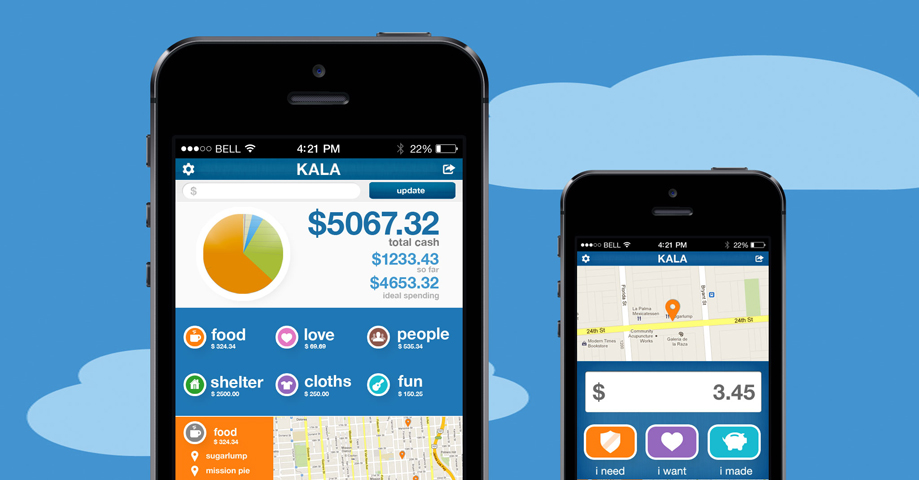
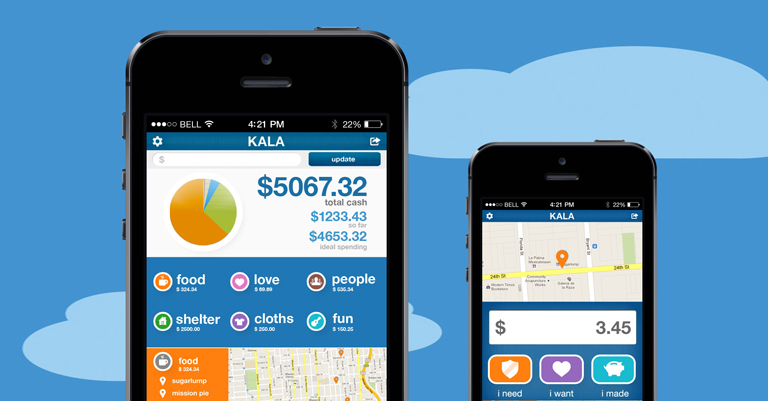
reduced mobile image size

diff --git a/css/main.css b/css/main.css
@@ -136,10 +136,11 @@ footer {
   }
 
   figure {
-    height: 480px;
-    width: 919px;
+    display: block;
+    height: 401px;
     background-attachment: scroll;
-    background-size: 100% 100%;
+    background-size: 768px 401px;
+    background-position: center center;
   }
 
   #games > figure { z-index: 0; background-image: url(../mobile/losttoys.jpg); }
@@ -166,7 +167,6 @@ footer {
 
   figure {
     height: 300px;
-    width: 574px;
-    background-size: 100% 100%;
+    background-size: 574px 300px;
   }
 }
